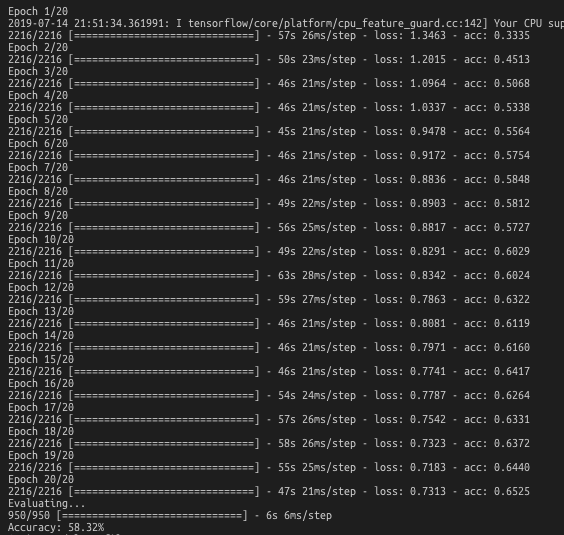
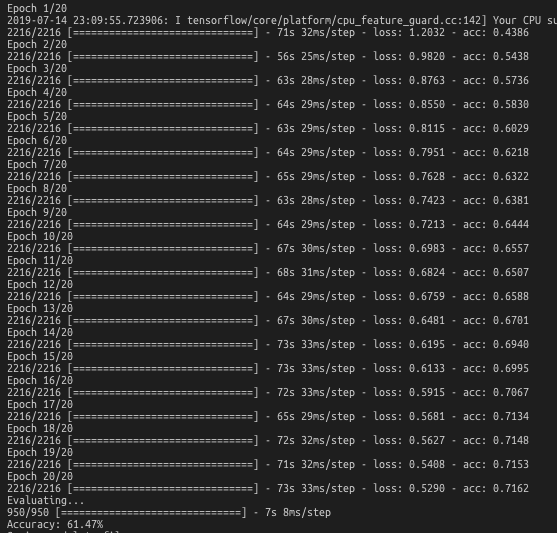
Add new images

Changed region(s): [[0.0, 0.0, 1.0, 1.0]]

diff --git a/README.md b/README.md
@@ -1,7 +1,7 @@
 # Classify Environment Pictures using Lenet Neural Net Architecture
 Convolutional neural network using LeNet architecture to classify a picture into 4 environment categories: forest, ocean, mountain, city. This uses Keras with tensorflow backend and is written in Python.  
 Around 800 labeled sets of pictures per each category, giving a total of 3200 total sets for training and testing. Labelled sets were scraped from google images and processed with OpenCV.  
-First attempt of the model gave an accuracy of 58.32% in 20 epochs.  
+First attempt of the model gave an accuracy of 61.47% in 20 epochs.  
 This model will be further improved in the future when I have access to a GPU.  
 
 ## Use:
@@ -12,4 +12,7 @@ To use, run: `python3 lenet_driver.py [options]`
     -w, --weights       Filename of the weights file for the already trained model. (Must be in output directory and hdf5 extension)  
 
 ### First attempt:
-![alt text](screenshots/first_attempt.png)
+![alt text](screenshots/first_attempt.png)  
+
+![alt text](screenshots/sample1.png)
+![alt text](screenshots/sample2.png)
